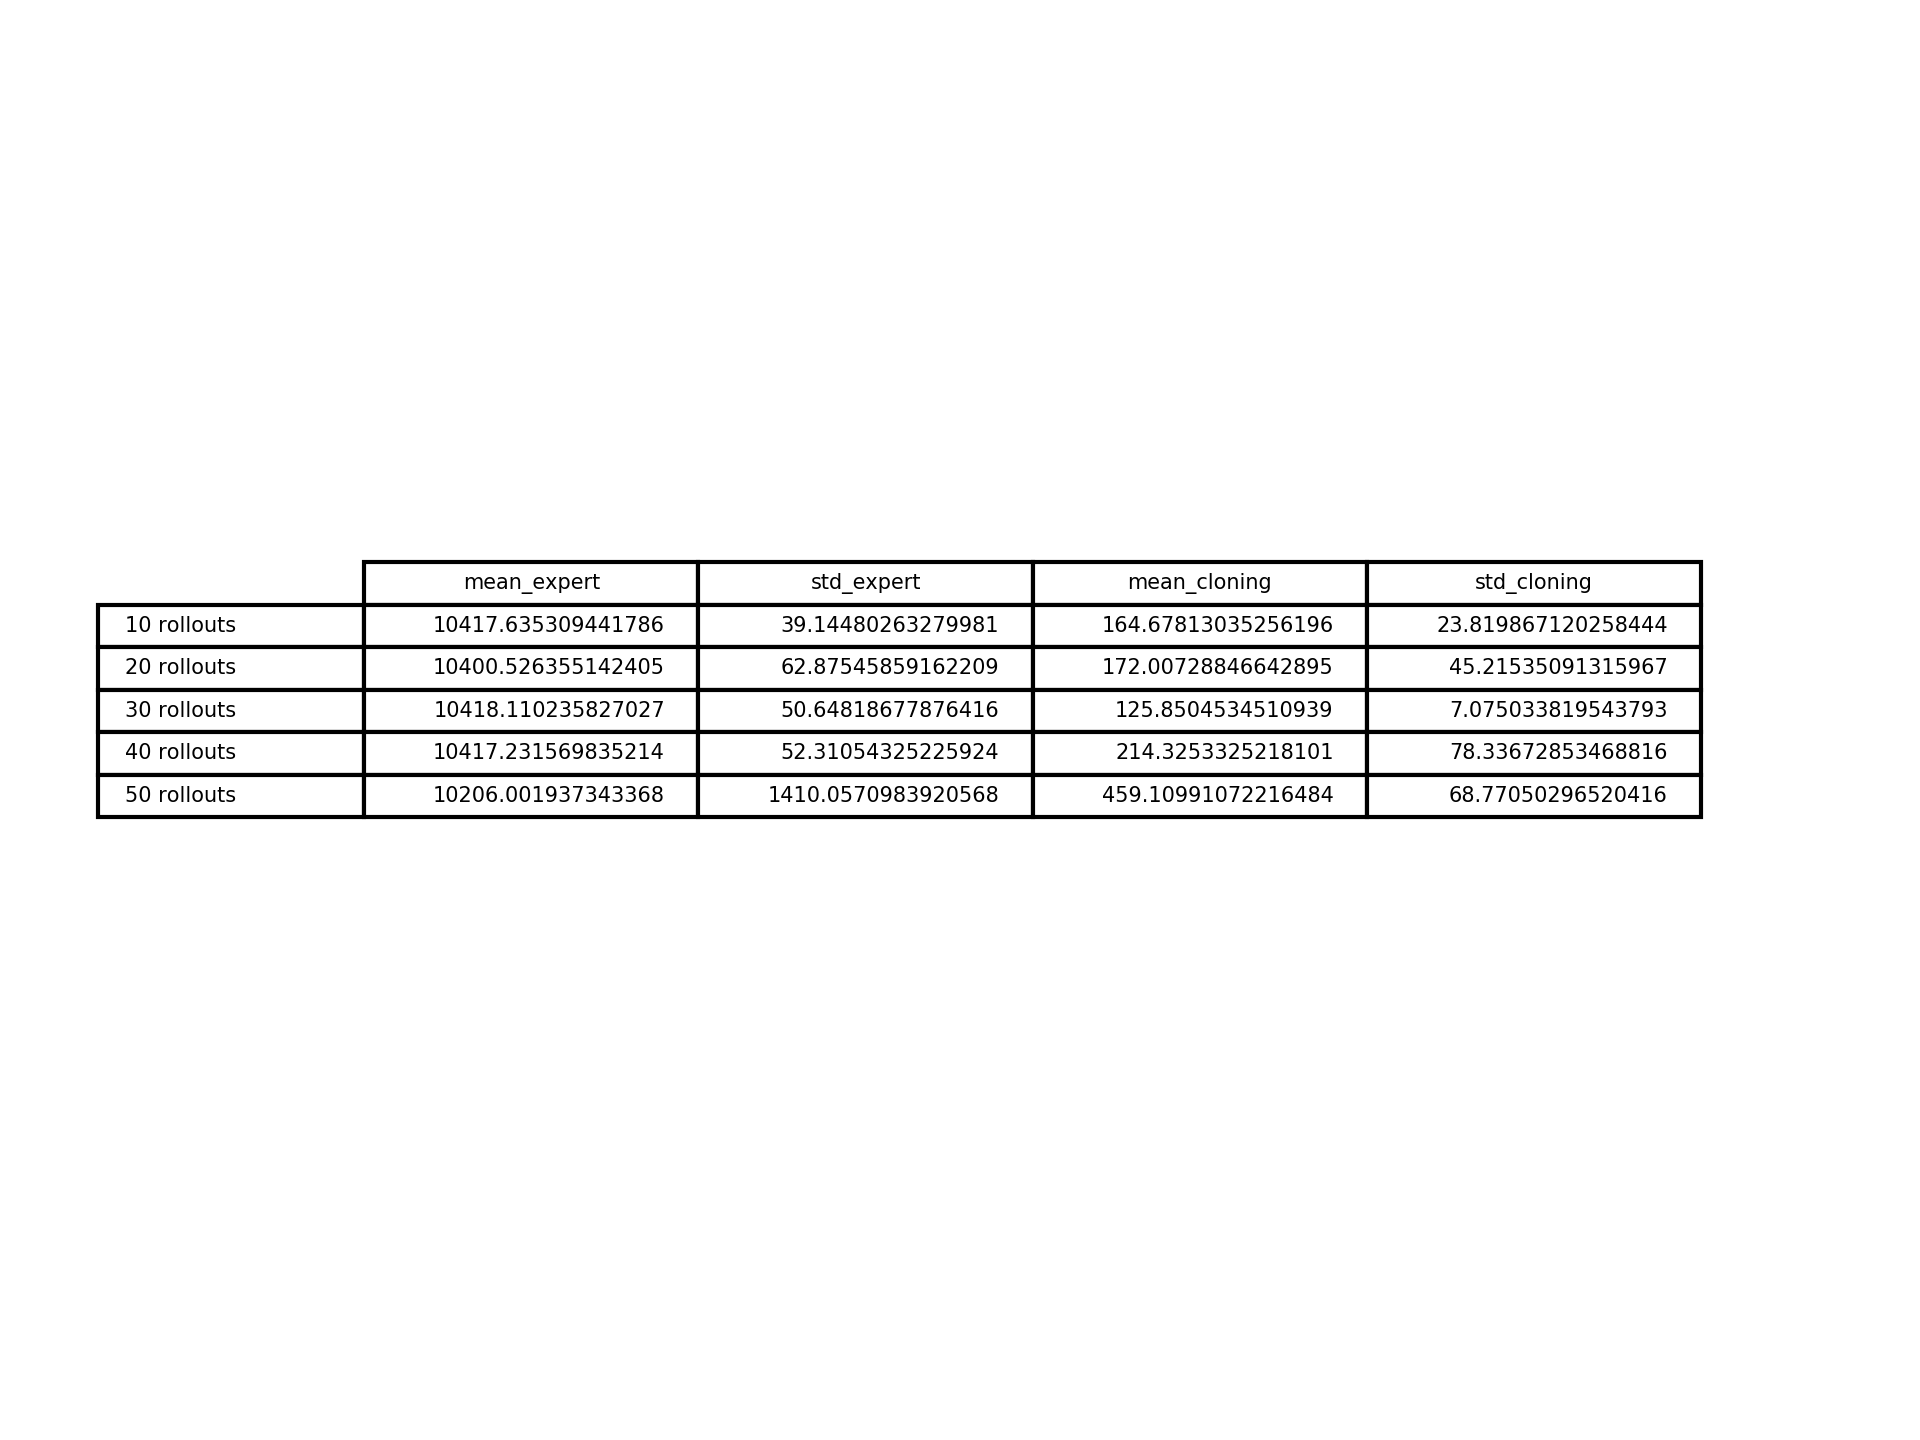
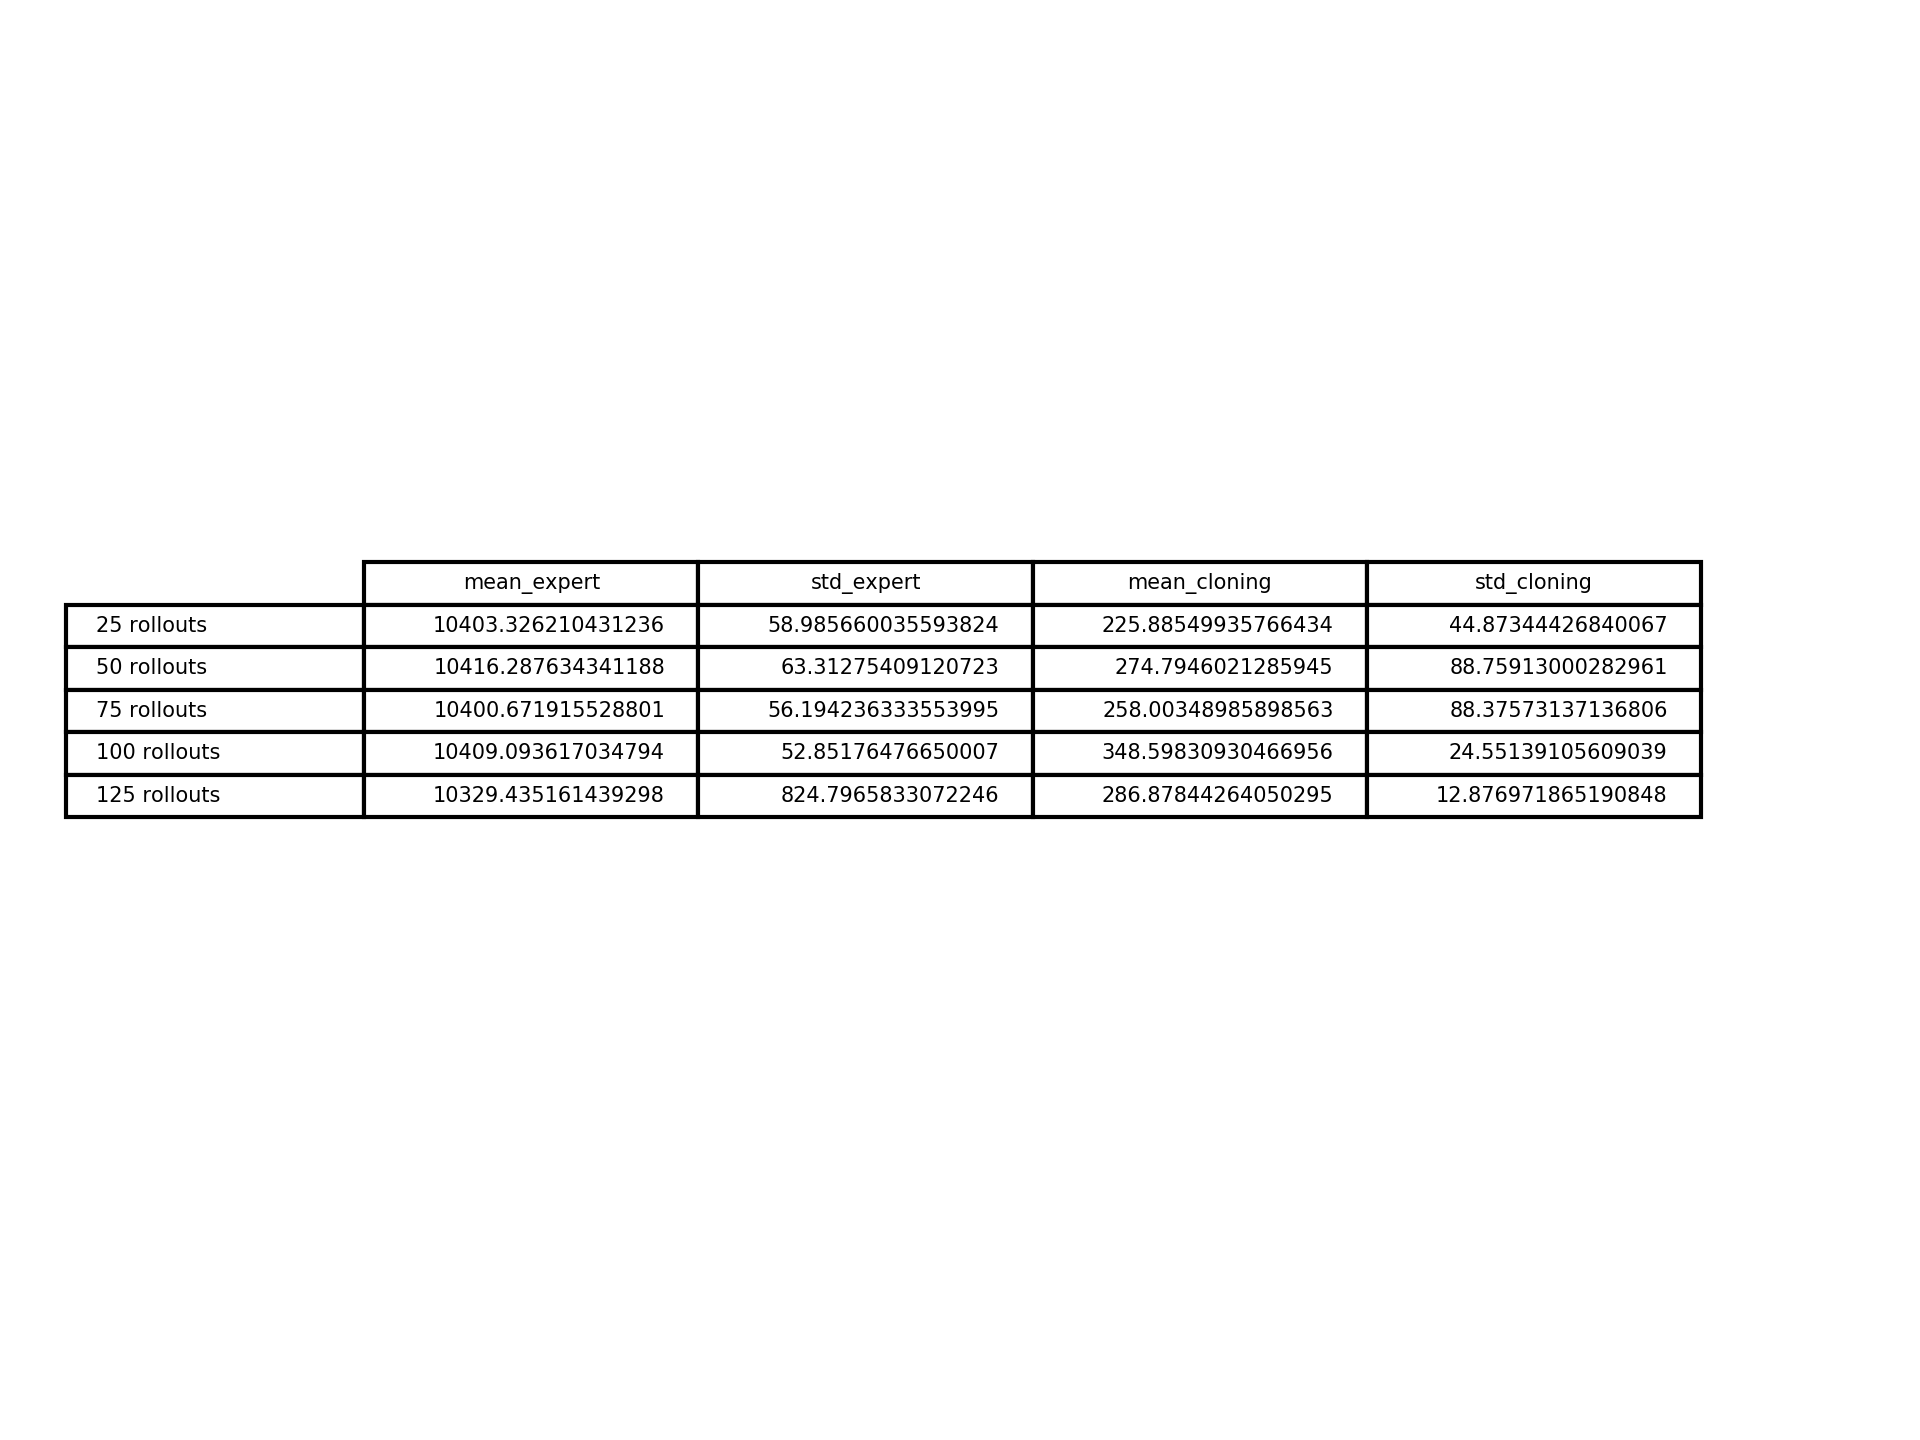
Increased number of rollouts

diff --git a/hw1/behavior_cloning.py b/hw1/behavior_cloning.py
@@ -156,7 +156,7 @@ def main():
             column_labels = ['mean_expert', 'std_expert', 'mean_cloning', 'std_cloning']
 
             # Store means/stds for expert/cloning over varying rollouts
-            for num_rollouts in range (10, 60, 10):
+            for num_rollouts in range (25, 150, 25):
                 print('num_rollouts', num_rollouts)
 
                 mean_expert, std_expert, mean_cloning, std_cloning = compare_model_expert(args, policy_fn, num_rollouts, env, max_steps)
